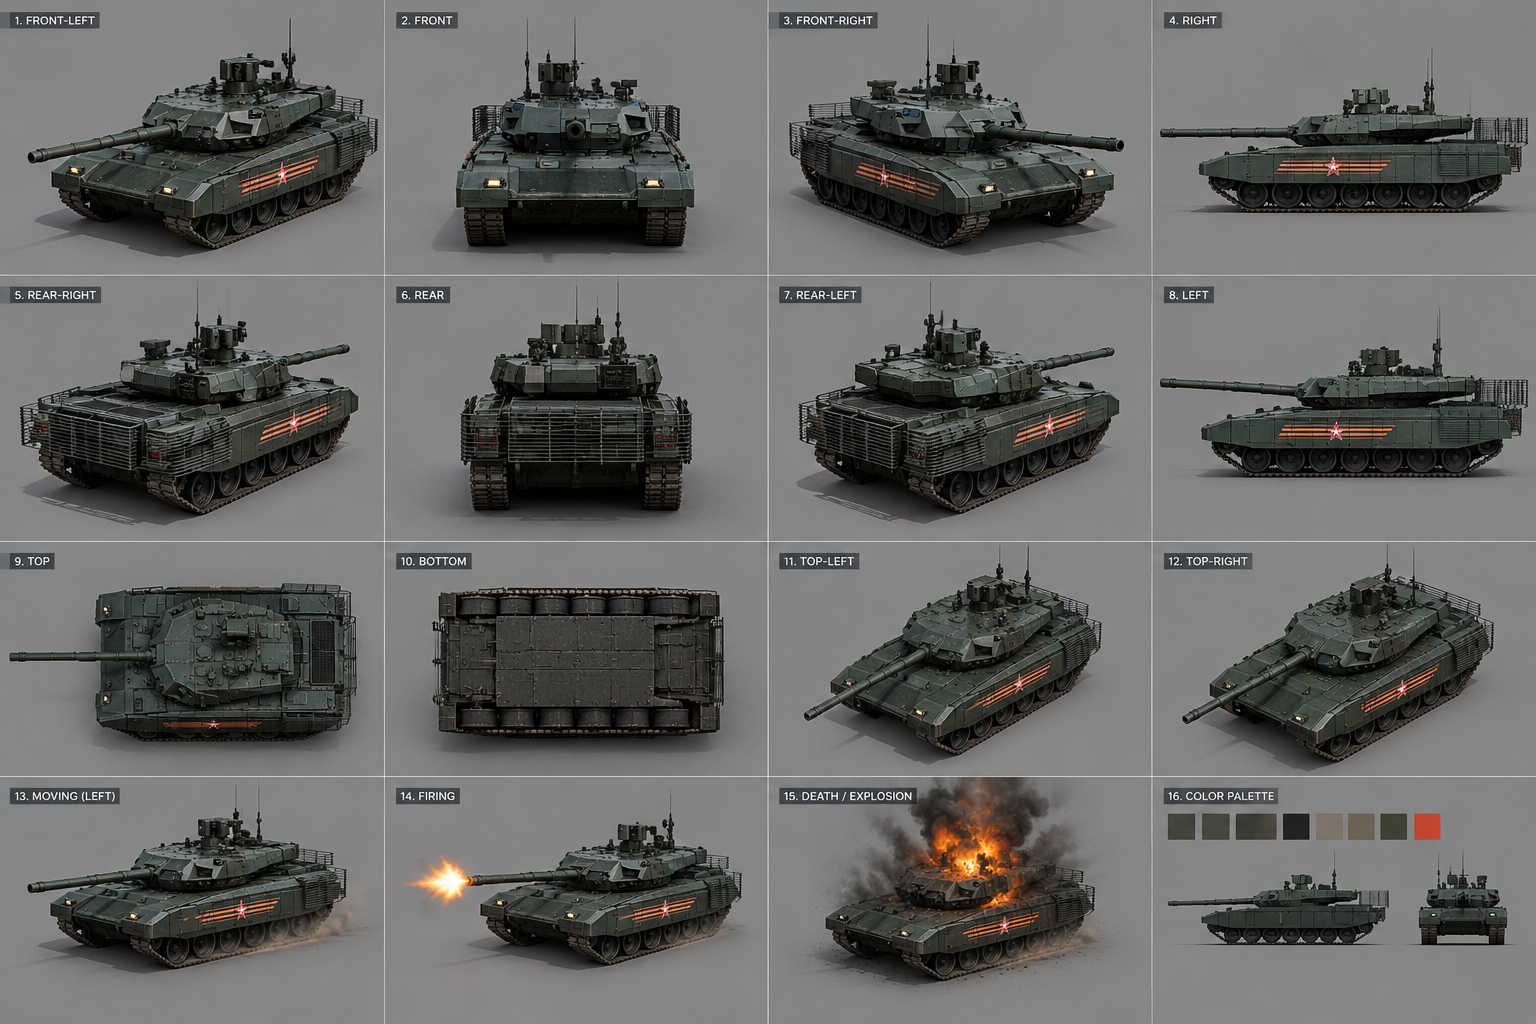
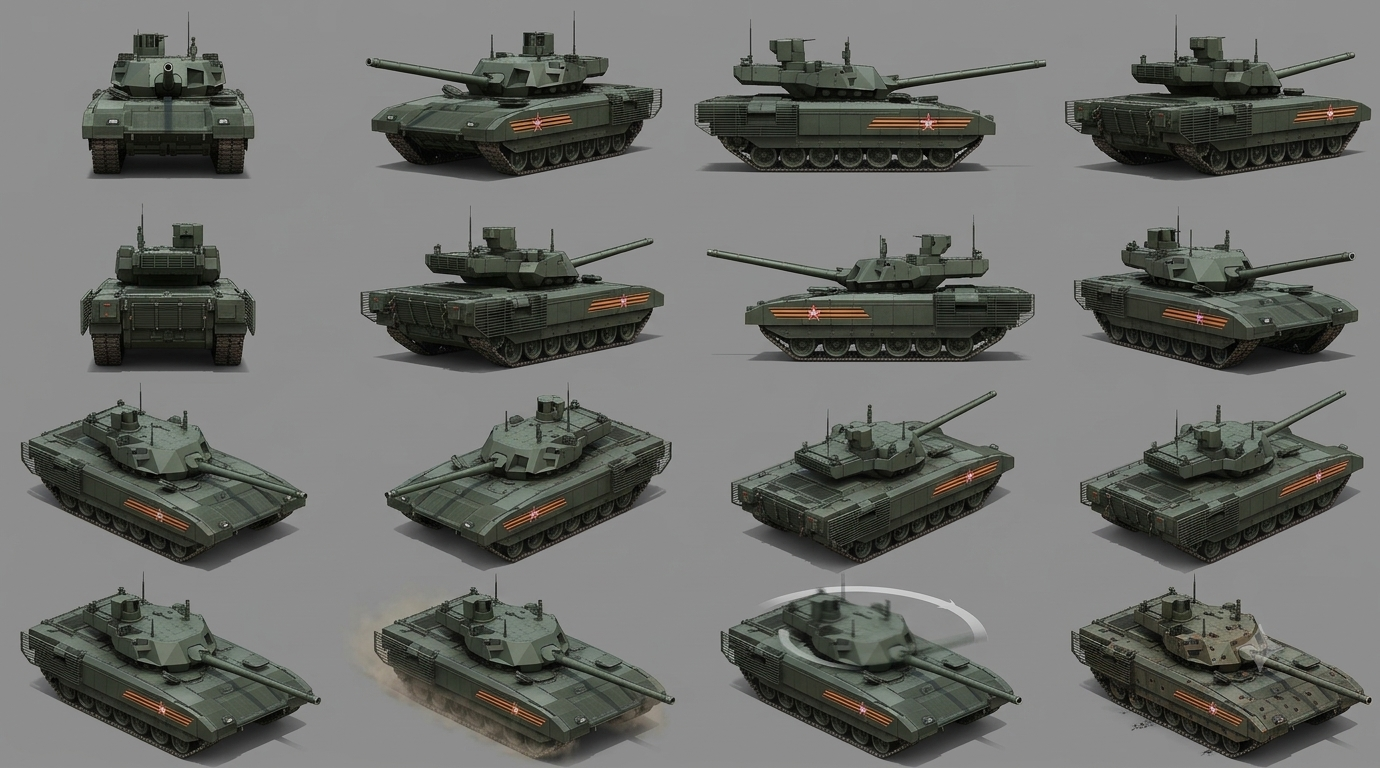
1.62.2

diff --git a/src/core/Renderer.ts b/src/core/Renderer.ts
@@ -90,6 +90,8 @@ export interface RenderScene {
   readonly waypointPlan?: readonly { x: number; y: number }[] | null;
   /** Selected Squatters teams standing still: a "F: plant flag" hint above their heads. */
   readonly flagHints?: ReadonlySet<number>;
+  /** An opponent's unit under the cursor: its info card is drawn above its head. */
+  readonly enemyInfoId?: number | null;
 }
 
 
@@ -298,18 +300,20 @@ export class Renderer {
     for (const u of units) if (u.flies) this.drawUnit(u);
     if (scene.ghost) this.drawGhost(scene.ghost);
     this.upright();
-    for (const f of focus) if (f.entity.kind !== 'building' && !f.airLock) this.drawFocusMarks(f.entity, f.strong);
+    for (const f of focus) if (f.entity.kind !== 'building' && !f.airLock) this.drawFocusMarks(f.entity, f.strong && f.entity.id !== scene.enemyInfoId);
     for (const f of focus) if (f.airLock) this.drawAirLock(f.entity);
     for (const l of scene.taskLocks ?? []) this.drawAirLock(l.entity, l.color);
     if (selected) this.drawFootprintEdge(selected, scene.time);
-    for (const u of units) if (selUnits.has(u.id) || u.hp < u.maxHp) this.drawUnitHealth(u, selUnits.has(u.id) || focus.some((f) => f.entity === u));
+    for (const u of units) if ((selUnits.has(u.id) || u.hp < u.maxHp) && (u.id !== scene.enemyInfoId || selUnits.has(u.id))) this.drawUnitHealth(u, selUnits.has(u.id) || focus.some((f) => f.entity === u));
     // The fuel gauge shows only while the transport is out on a sortie; parked or taxiing at home it is idle (hidden).
     for (const u of units) if (u instanceof Vehicle && u.maxBombs > 0) this.drawBombs(u);
     for (const u of units) if (u instanceof Vehicle && (u.isTransport || u.isTanker) && u.flight !== 'parked' && u.flight !== 'taxi' && u.flight !== 'taxiHome') this.drawFuel(u);
-    for (const f of focus) if (f.entity.kind !== 'building' && !selUnits.has(f.entity.id) && f.entity.hp >= f.entity.maxHp) this.drawUnitHealth(f.entity, true);
+    for (const f of focus) if (f.entity.kind !== 'building' && !selUnits.has(f.entity.id) && f.entity.id !== scene.enemyInfoId && f.entity.hp >= f.entity.maxHp) this.drawUnitHealth(f.entity, true);
     const hints = scene.flagHints;
     if (hints?.size) for (const u of units) if (hints.has(u.id)) this.drawFlagHint(u);
     for (const u of units) if (u.restLeft > 0 && !hints?.has(u.id)) this.drawTag(u, `Resting ${Math.ceil(u.restLeft)}s`, '#9fd3ff');
+    const info = units.find((u) => u.id === scene.enemyInfoId);
+    if (info) this.drawEnemyInfo(info);
     for (const u of units) {
       if (u.rank > 0) this.drawRank(u);
       if (u instanceof Vehicle && u.isCarrier && (u.cargo.length > 0 || u.incoming > 0)) this.drawCargoBadge(u);
@@ -704,6 +708,38 @@ export class Renderer {
       ctx.textAlign = 'center';
       ctx.fillText(text, x + w / 2, y + h / 2 - k);
     }
+    ctx.restore();
+  }
+
+  /** Tag above a hovered opponent unit: its nation's emblem inline, then its name (upright transform). */
+  private drawEnemyInfo(u: Unit): void {
+    const { ctx } = this;
+    const k = 1 / this.camera.zoom;
+    const P = worldToIso(u.px, u.py);
+    const lift = u.flies && 'altitude' in u ? Number((u as { altitude: number }).altitude) : 0;
+    const top = P.y - lift - Math.max(u.bodyHeight, 2) - 1.6 - (u.rank > 0 ? 3.6 : 0);
+    const text = 'name' in u ? String((u as { name: string }).name) : 'Enemy';
+    const img = u.faction !== 'neutral' ? emblemImage(u.faction as FactionId) : null;
+    ctx.save();
+    ctx.font = `600 ${11 * k}px "Segoe UI", system-ui, sans-serif`;
+    const s = 11 * k;
+    const iw = img ? (s * img.naturalWidth) / Math.max(img.naturalWidth, img.naturalHeight) : 0;
+    const ih = img ? (s * img.naturalHeight) / Math.max(img.naturalWidth, img.naturalHeight) : 0;
+    const gap = img ? 4 * k : 0;
+    const tw = ctx.measureText(text).width;
+    const w = iw + gap + tw + 10 * k;
+    const h = 15 * k;
+    const x = P.x - w / 2;
+    const y = top - 1.5 - h;
+    ctx.fillStyle = 'rgba(8,12,16,0.85)';
+    ctx.fillRect(x, y, w, h);
+    ctx.fillStyle = teamColors(u.faction).primary;
+    ctx.fillRect(x, y + h - 2 * k, w, 2 * k);
+    if (img) ctx.drawImage(img, x + 5 * k, y + (h - k) / 2 - ih / 2, iw, ih);
+    ctx.fillStyle = '#f2f5f8';
+    ctx.textAlign = 'left';
+    ctx.textBaseline = 'middle';
+    ctx.fillText(text, x + 5 * k + iw + gap, y + h / 2 - k);
     ctx.restore();
   }
 

diff --git a/RULE.html b/RULE.html
@@ -26,7 +26,7 @@
 <body>
 <main>
 <img class="logo" src="/logo.png" alt="Black Area" />
-<h1>Black Area — RULE <small>v1.60.3</small></h1>
+<h1>Black Area — RULE <small>v1.62.2</small></h1>
 <p class="lead">Tài liệu luật chơi + kiến trúc code dành cho AI/dev sửa game. Mọi con số gameplay chính xác nằm trong <code>src/constants.ts</code> và <code>src/factions/*.ts</code>. Nếu tài liệu này khác code thì <b>code đúng</b>. <b>Khi đổi luật/số trong code, phải cập nhật file này.</b></p>
 <nav><a href="#s1">Quy tắc làm việc cho AI</a><a href="#s2">Chạy dự án</a><a href="#s3">Kiến trúc thư mục</a><a href="#s4">Thế giới</a><a href="#s5">Kinh tế (dầu)</a><a href="#s6">Công trình (ConstructionSystem.BUILD_OPTIONS)</a><a href="#s7">Quân đội</a><a href="#s8">Chiến đấu</a><a href="#s9">Điều khiển (Game.handleKey, handleInput)</a><a href="#s10">Giới hạn &amp; hiệu năng</a><a href="#s11">Thắng / thua &amp; AI</a><a href="#s12">Công thức sửa thường gặp</a></nav>
 <h2 id="s1">0. Quy tắc làm việc cho AI</h2>
@@ -151,7 +151,7 @@ npm run build:earth  # tạo lại public/data/earth.png (scripts/build-earth.mj
 <ul>
   <li>Apache (Mỹ, Âu), Ka-52 (Nga, Hồi), Z-19E (Trung). Chỉ bắn <b>xe / phương tiện mặt đất</b>: không bắn công trình, lính, máy bay.</li>
   <li>Đậu ở bất kỳ đâu trên đất liền như xe; chở tối đa <code>HELI_SOLDIERS = 8</code> lính, không chở xe.</li>
-  <li>Đang đậu mà bị bắn: bay lên đánh trả, đánh xong bay về đúng chỗ cũ và đáp lại (lệnh mới thì bỏ việc quay về). Áp dụng cho cả người chơi và AI.</li>
+  <li><b>Phòng vệ trực thăng</b>: đang đậu mà bị lính hoặc xe/tank mặt đất bắn → bay lên, khóa mục tiêu kẻ vừa bắn và đánh trả (ngoại lệ: được bắn cả <b>lính</b> đó; <code>Vehicle.heliRevenge</code>, hết khi xong trận hoặc có lệnh mới), đánh xong bay về đúng chỗ cũ và đáp lại (lệnh mới thì bỏ việc quay về). Áp dụng cho cả người chơi và AI.</li>
 </ul>
 <h3>Vay khẩn cấp (Global Monitoring Center)</h3>
 <ul>
@@ -450,6 +450,7 @@ npm run build:earth  # tạo lại public/data/earth.png (scripts/build-earth.mj
 <tr><td>Tab</td><td>Ẩn/hiện sidebar</td></tr>
 <tr><td>Lăn chuột, <code>+</code> <code>-</code></td><td>Zoom</td></tr>
 <tr><td>WASD / mũi tên / chuột giữa / mép màn hình</td><td>Cuộn camera</td></tr>
+<tr><td>Hover vào đơn vị đối thủ (mọi loại)</td><td>Nhãn trên đầu: logo phe + tên đơn vị (inline), không hiện thanh máu (trừ khi đang chọn) (<code>Renderer.drawEnemyInfo</code>)</td></tr>
 <tr><td>Esc</td><td>Huỷ đặt nhà → huỷ waypoint → tạm dừng</td></tr>
 </table>
 <h3>Lưu / tải</h3>

diff --git a/src/core/Game.ts b/src/core/Game.ts
@@ -978,7 +978,10 @@ export class Game {
   orderAttackTarget(units: readonly Unit[], target: Entity): void {
     for (const u of units) {
       if (!canTarget(u, target)) continue;
-      if (u instanceof Vehicle) u.heliHome = null;
+      if (u instanceof Vehicle) {
+        u.heliHome = null;
+        u.heliRevenge = null;
+      }
       u.parade = null;
       u.task = null;
       u.attackMove = null;
@@ -1078,7 +1081,10 @@ export class Game {
     units = this.keepAircraftAtAirfield(units, target);
     const spacing = Math.max(UNIT_SPACING * 1.15, Math.max(0, ...units.map((u) => u.radius)) * 2.1);
     units.forEach((u, k) => {
-      if (u instanceof Vehicle) u.heliHome = null;
+      if (u instanceof Vehicle) {
+        u.heliHome = null;
+        u.heliRevenge = null;
+      }
       u.parade = null;
       u.task = null;
       if (u instanceof Infantry) u.charge = null;
@@ -1895,6 +1901,7 @@ export class Game {
       pathPeekId: this.pathPeekId,
       waypointPlan: this.waypointPlan(),
       flagHints: this.flagHints(),
+      enemyInfoId: !this.placing && hoverUnit instanceof Unit && hoverUnit.owner !== this.humanPlayer.id ? hoverUnit.id : null,
       focus: focus.map((f) => ({ entity: f.entity, strong: f.strong, engaged: f.engaged, airLock: f.airLock })),
       taskLocks: this.placing ? [] : this.taskLocks(),
       effects: this.effects.list,
@@ -4051,6 +4058,7 @@ export class Game {
     if (!this.map.cellAt(world.x, world.y) || units.length === 0) return;
     // A new move order ends a repair job (mending, or driving to a repair vehicle).
     for (const u of units) if (u instanceof Vehicle) {
+      u.heliRevenge = null;
       u.heliHome = null; // a new order: no going back to where it was scrambled from
       u.repairTargetId = null;
       u.seekRepairId = null;

diff --git a/src/systems/AircraftSystem.ts b/src/systems/AircraftSystem.ts
@@ -161,6 +161,12 @@ export class AircraftSystem implements GameSystem {
         v.heliHome = { x: v.px, y: v.py };
         v.flight = 'liftoff';
         v.phaseTime = 0;
+        // Self-defence: a soldier or ground vehicle that shot it becomes its target (player and AI alike).
+        const a = v.lastAttackerId === null ? undefined : this.entities.get(v.lastAttackerId);
+        if (a && a.alive && a.owner !== v.owner && a.kind === 'unit' && !(a as Vehicle).flies && (a as Vehicle).weapon !== null) {
+          v.heliRevenge = a.id;
+          v.attackTarget = a.id;
+        }
       }
       if (v.isTransport) this.fuel(v, prev, dt);
       if (v.isTanker) this.escort(v, dt);
@@ -1079,6 +1085,7 @@ export class AircraftSystem implements GameSystem {
       v.idleFor = 0;
       return;
     }
+    v.heliRevenge = null; // the fight is over: back to hunting ground vehicles only
     v.idleFor += dt;
     if (v.idleFor < HELI_SETTLE_SECONDS) return;
     // Scrambled under fire: the fight is over, so it flies back to the spot it lifted off from and lands there.

diff --git a/src/systems/CombatSystem.ts b/src/systems/CombatSystem.ts
@@ -41,7 +41,8 @@ export function canTarget(shooter: Unit, target: Entity): boolean {
   if (!w || !isHostile(shooter, target)) return false;
   if (shooter.unarmedTransport) return false; // transports never attack anything
   // Attack helicopters hunt ground vehicles only: no structures, soldiers or aircraft.
-  if (shooter instanceof Vehicle && shooter.isHeli) return target instanceof Vehicle && !target.aircraft;
+  // Exception (self-defence): the ground attacker that shot it while it stood landed, soldier or vehicle.
+  if (shooter instanceof Vehicle && shooter.isHeli) return (target instanceof Vehicle && !target.aircraft) || (shooter.heliRevenge === target.id && target instanceof Unit && !target.flies);
   // MANTIS air defence: aircraft in flight only.
   if (shooter instanceof Vehicle && shooter.type === 'mantis') return target instanceof Unit && target.flies;
   if (target instanceof Unit && target.flies) return shooter.aircraft && w.hitsAir;

diff --git a/src/constants.ts b/src/constants.ts
@@ -26,7 +26,7 @@ export const DEMO_FACTION = Number(import.meta.env.VITE_DEMO_FACTION) || 2;
  * How to update: after each change bump the matching part and reset the parts to its right to 0 (1.2.3 → fix 1.2.4,
  * feature 1.3.0, breaking 2.0.0), and write the same number into RULE.html and README.md.
  */
-export const GAME_VERSION = "1.60.3";
+export const GAME_VERSION = "1.62.2";
 
 // ---------------------------------------------------------------- World (real Earth)
 /** Packed Earth texture built by `npm run build:earth` (see scripts/build-earth.mjs). */

diff --git a/src/entities/Vehicle.ts b/src/entities/Vehicle.ts
@@ -105,6 +105,8 @@ export class Vehicle extends Unit {
   homeId: number | null = null;
   /** Helicopter scrambled off the ground under fire: where it stood, to land there again once the fight is over. */
   heliHome: WorldPoint | null = null;
+  /** Helicopter self-defence: the ground soldier / tank that shot it while landed; it may fire back at this one (soldier included). */
+  heliRevenge: number | null = null;
   slot = -1;
   /** Comes in to land from the runway's far end (flying against the take-off direction). */
   landReverse = false;

diff --git a/index.html b/index.html
@@ -15,7 +15,7 @@
     <aside id="sidebar"></aside>
     <div id="loading" hidden>
       <div class="ld-box">
-        <div id="loading-text">Generating Earth…</div>
+        <div id="loading-text">Generating…</div>
         <div class="ld-bar"><i id="loading-fill"></i></div>
         <div id="loading-pct">0%</div>
       </div>

diff --git a/tools/tank_views_sheet.py b/tools/tank_views_sheet.py
@@ -25,8 +25,10 @@ SIDE_SPAN = 50
 # (0 = nose up the screen, clockwise, 8 steps) the (reference cell index, mirrored) to use.
 # Cells: 0 front-left, 1 front, 2 front-right, 3 right side (nose left), 4 rear-right, 5 rear, 6 rear-left, 7 left side.
 MODELS = {
-    't14': dict(rows=[(0, 275), (276, 541)], bg=134,
-                views={0: (5, False), 1: (4, False), 2: (3, True), 3: (2, False), 4: (1, False), 5: (0, False), 6: (3, False), 7: (4, True)}),
+    # t14: unlabelled 1380 × 768 reference, 4 × 4 cells of 345 × 192; rows 0-1 used.
+    # Cells: 0 front, 1 front-left, 2 side nose right, 3 rear-right, 4 rear, 5 rear-right, 6 side nose left, 7 front-right.
+    't14': dict(rows=[(0, 192), (192, 384)], bg=143, col_w=345, label=False, side=2,
+                views={0: (4, False), 1: (5, False), 2: (2, False), 3: (7, False), 4: (0, False), 5: (1, False), 6: (6, False), 7: (5, True)}),
     'm1a2': dict(rows=[(0, 270), (274, 520)], bg=125,
                  views={0: (5, False), 1: (4, False), 2: (3, True), 3: (2, False), 4: (1, False), 5: (0, False), 6: (3, False), 7: (6, False)}),
     'leopard2': dict(rows=[(0, 267), (270, 514)], bg=125,
@@ -34,7 +36,7 @@ MODELS = {
 }
 
 
-def cutout(cell, BG):
+def cutout(cell, BG, label=True):
     a = np.asarray(cell.convert('RGB')).astype(np.float32)
     lum = a.mean(-1)
     sat = a.max(-1) - a.min(-1)
@@ -46,12 +48,40 @@ def cutout(cell, BG):
     alpha[shadow] = np.clip((BG - lum[shadow]) / 50, 0, 1) * 0.6
     rgb[shadow] = 0
     out = np.dstack([rgb, alpha * 255]).clip(0, 255).astype(np.uint8)
-    out[:LABEL_H, :170, 3] = 0
+    if label:
+        out[:LABEL_H, :170, 3] = 0
     out[:4, :, 3] = 0
     out[-4:, :, 3] = 0
     out[:, :4, 3] = 0
     out[:, -4:, 3] = 0
     return Image.fromarray(out, 'RGBA')
+
+
+def largest(im):
+    """Keeps only the biggest opaque blob (drops bits of the neighbouring cells' art)."""
+    from collections import deque
+    a = np.asarray(im).copy()
+    mask = a[..., 3] > 0
+    lab = np.zeros(mask.shape, np.int32)
+    h, w = mask.shape
+    best, best_n, n = 0, 0, 0
+    for y0, x0 in zip(*np.nonzero(mask)):
+        if lab[y0, x0]:
+            continue
+        n += 1
+        lab[y0, x0] = n
+        q, size = deque([(y0, x0)]), 0
+        while q:
+            y, x = q.popleft()
+            size += 1
+            for yy, xx in ((y + 1, x), (y - 1, x), (y, x + 1), (y, x - 1)):
+                if 0 <= yy < h and 0 <= xx < w and mask[yy, xx] and not lab[yy, xx]:
+                    lab[yy, xx] = n
+                    q.append((yy, xx))
+        if size > best_n:
+            best, best_n = n, size
+    a[lab != best, 3] = 0
+    return Image.fromarray(a, 'RGBA')
 
 
 def body_box(im):
@@ -65,8 +95,9 @@ def build(model):
     cells = []
     for y0, y1 in cfg['rows']:
         for c in range(4):
-            cells.append(cutout(ref.crop((c * COL_W, y0, (c + 1) * COL_W, y1)), cfg['bg']))
-    side = body_box(cells[3])
+            w = cfg.get('col_w', COL_W)
+            cells.append(largest(cutout(ref.crop((c * w, y0, (c + 1) * w, y1)), cfg['bg'], cfg.get('label', True))))
+    side = body_box(cells[cfg.get('side', 3)])
     k = SIDE_SPAN / (side[2] - side[0])
     views = []
     for d in range(8):

diff --git a/README.md b/README.md
@@ -4,7 +4,7 @@
 
 <h1 align="center">Black Area</h1>
 
-<p align="center"><sub>Phiên bản 1.60.3</sub></p>
+<p align="center"><sub>Phiên bản 1.62.2</sub></p>
 
 <p align="center"><b><a href="https://black-area.vercel.app">▶ CHƠI NGAY: black-area.vercel.app</a></b></p>
 
